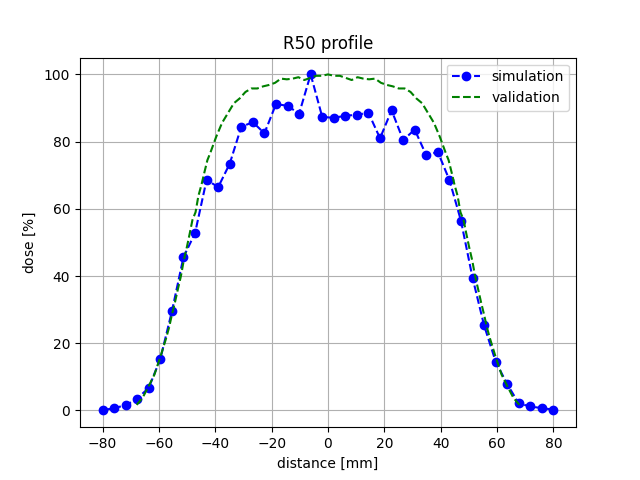
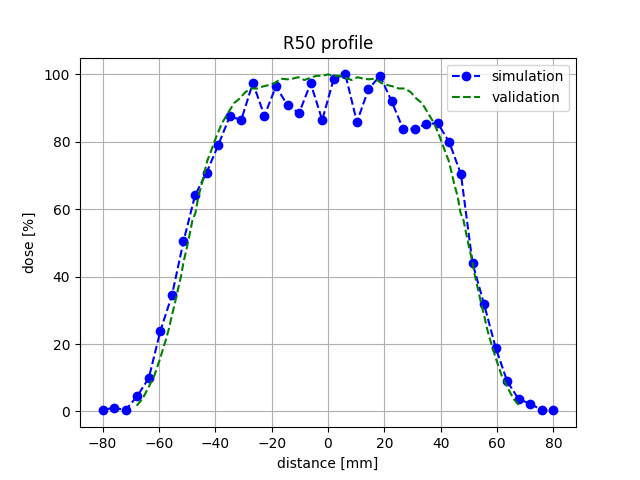
fix images

Changed region(s): [[0.0938, 0.125, 0.9062, 0.875], [0.0938, 0.8438, 0.1562, 0.875], [0.0625, 0.4062, 0.0938, 0.4375]]

diff --git a/Flash_ex_novo/VALIDATION/PDD_Plot.py b/Flash_ex_novo/VALIDATION/PDD_Plot.py
@@ -10,7 +10,7 @@ from tsmoothie.smoother import *
 #so far the best one is dose_newcuts with binning 40 40 40 and size 4 8 8 cm
 
 #df = pd.read_csv('dose_newcuts_5deg_newlist.csv',names=['X','Y','Z','dose [Gy]','dosesq [Gy^2]','entry'])
-df = pd.read_csv('dose.csv',names=['X','Y','Z','dose [Gy]','dosesq [Gy^2]','entry'])
+df = pd.read_csv('./oldruns/dose_newcuts.csv',names=['X','Y','Z','dose [Gy]','dosesq [Gy^2]','entry'])
 
 distance_val,validation_dose=np.loadtxt('novac11PDD.txt',unpack=True)
 distancer50,doser50=np.loadtxt('r50.txt',unpack=True)
